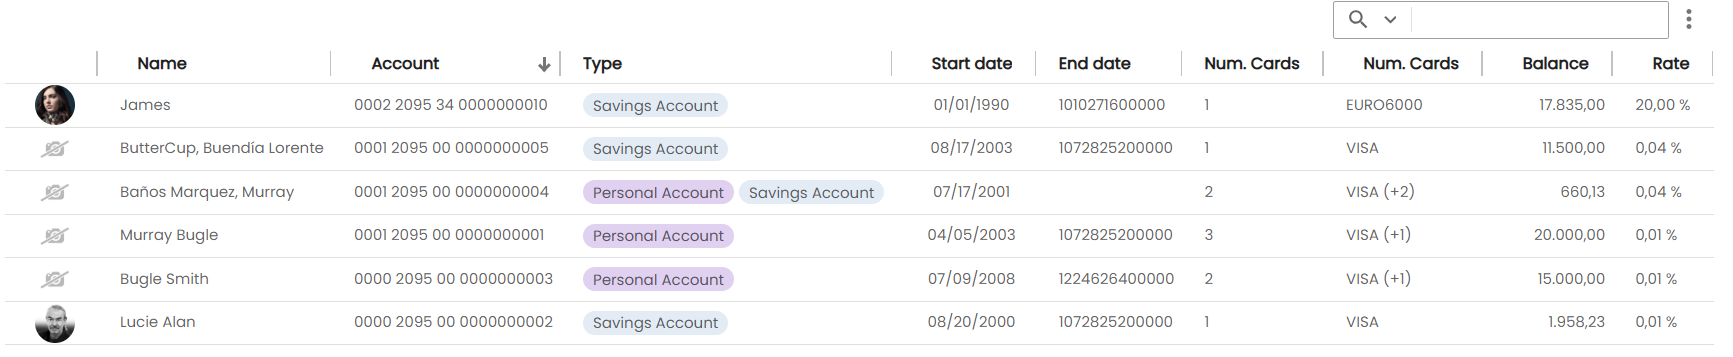
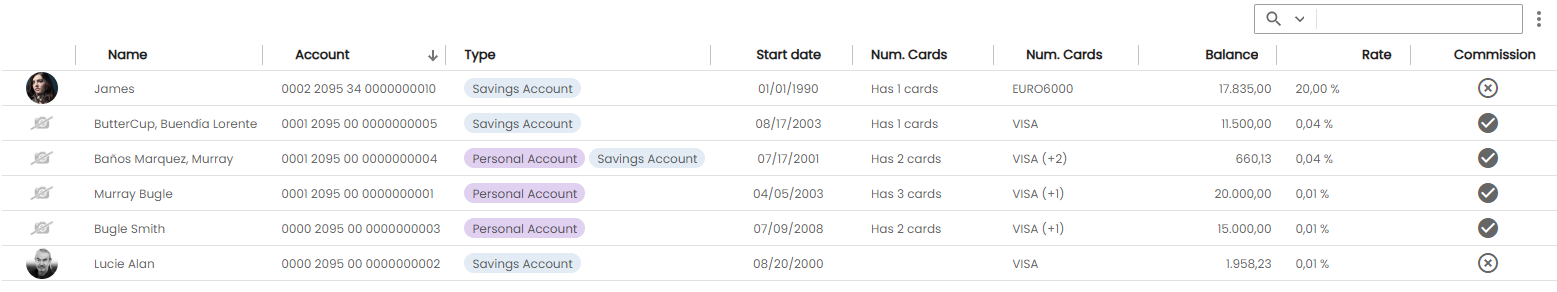
Updated OTableGlobalConfig api

diff --git a/docs/components/data/35-o-table.component.md b/docs/components/data/35-o-table.component.md
@@ -387,7 +387,10 @@ You can see different predefined table cell renderers in the example below.
 ![Predefined table cell renderers]({{ "/assets/images/components/tabla/renderers_table.png" | absolute_url }}){: .comp-example-img}
 
 ```html
-<o-table  attr="accounts" columns="PHOTO;NAME;ACCOUNT;ACCOUNTTYP;STARTDATE;ENDDATE;NUMCARDS;CARDS;BALANCE;INTERESRATE;CLOSED;COMMISSION" visible-columns="PHOTO;NAME;ACCOUNT;ACCOUNTTYP;STARTDATE;ENDDATE;NUMCARDS;CARDS;BALANCE;INTERESRATE;CLOSED;COMMISSION" title="ACCOUNTS" [static-data]="tableData" sort-columns="ACCOUNT:DESC" query-on-init="false" quick-filter="yes" insert-button="no" delete-button="no" refresh-button="no" pagination-controls="no" export-button="no">
+<o-table  attr="accounts"
+    columns="PHOTO;NAME;ACCOUNT;ACCOUNTTYP;STARTDATE;HAS_CARDS;CARDS;BALANCE;INTERESRATE;CLOSED;COMMISSION"
+    visible-columns="PHOTO;NAME;ACCOUNT;ACCOUNTTYP;STARTDATE;HAS_CARDS;CARDS;BALANCE;INTERESRATE;COMMISSION"
+    title="ACCOUNTS" [static-data]="tableData" sort-columns="ACCOUNT:DESC" query-on-init="false" quick-filter="yes" insert-button="no" delete-button="no" refresh-button="no" pagination-controls="no" export-button="no">
   <!--Date Renderer-->
   <o-table-column attr="STARTDATE" title="STARTDATE" type="date"> </o-table-column>
   <!--Currency Renderer-->
@@ -399,18 +402,27 @@ You can see different predefined table cell renderers in the example below.
   <!--Boolean Renderer-->
   <o-table-column attr="COMMISSION" title="COMMISSION" type="boolean" render-true-value="check_circle" render-false-value="highlight_off" render-type="icon" boolean-type="string"></o-table-column>
   <!--Translate Renderer-->
-  <o-table-column attr="NUMCARDS" title="CARDS">
+  <o-table-column attr="HAS_CARDS" title="CARDS">
     <o-table-cell-renderer-translate [translate-params]="translateArgsFn"></o-table-cell-renderer-translate>
   </o-table-column>
-   <!--Chip Renderer-->
-   <o-table-column attr="ACCOUNTTYP">
-      <o-table-cell-renderer-chip></o-table-cell-renderer-chip>
-    </o-table-column>
-    <!--List Renderer-->
-    <o-table-column attr="CARDS"  tooltip="yes">
-      <o-table-cell-renderer-list></o-table-cell-renderer-list>
-    </o-table-column>
+  <!--Chip Renderer-->
+  <o-table-column attr="ACCOUNTTYP">
+    <o-table-cell-renderer-chip></o-table-cell-renderer-chip>
+  </o-table-column>
+  <!--List Renderer-->
+  <o-table-column attr="CARDS"  tooltip="yes">
+    <o-table-cell-renderer-list></o-table-cell-renderer-list>
+  </o-table-column>
 </o-table>
+```
+
+```scss
+.o-table-cell-renderer-chip-savings_account{
+  background-color: #E3ECF4FF;
+}
+.o-table-cell-renderer-chip-personal_account {
+  background-color: #D4C2E9BF;
+}
 ```
 
 You can see this live example in the [OntimizeWeb playground]({{site.playgroundurl}}/main/data/table/renderer){:target="_blank"}.
@@ -612,7 +624,7 @@ The **`list` table cell renderer** is used to display array values in a compact 
 
 This renderer is especially useful when table cells contain lists or multiple values and you want to avoid wide columns.
 
-** Display behavior **
+**Display behavior**
 
 | Cell value        | Displayed text | Tooltip   |
 | ----------------- | -------------- | --------- |
